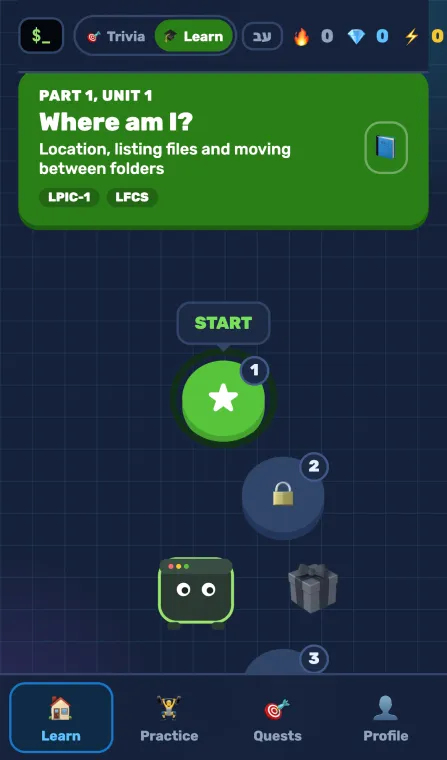
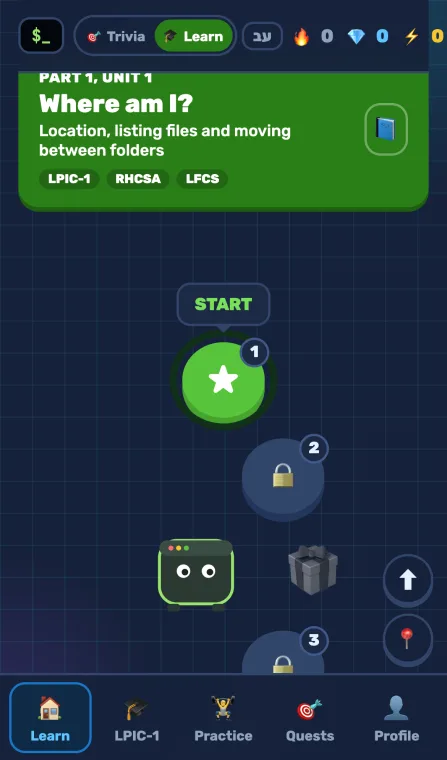
Linux Master: show the certification tracks
New screenshot with the LPIC-1 track chosen and the jump buttons, and a
highlight for the tracks (LPIC-1 71 units, RHCSA 56, LFCS 49).

diff --git a/src/data/site.ts b/src/data/site.ts
@@ -272,16 +272,16 @@ export const projects: Project[] = [
     },
     highlights: [
       {
+        en: "Pick your certification from the tab bar: LPIC-1 (71 units), RHCSA (56) or LFCS (49) shows only its units, and progress is kept in every track.",
+        he: "בוחרים הסמכה מסרגל הלשוניות: LPIC-1 (71 יחידות), RHCSA (56) או LFCS (49), ורואים רק את היחידות שלה. ההתקדמות נשמרת בכל מסלול.",
+      },
+      {
         en: "No invented output: answers run in a simulated shell or come from output recorded on real Ubuntu and AlmaLinux.",
         he: "בלי פלט מומצא: התשובות רצות במעטפת מדומה או מגיעות מפלט שהוקלט על Ubuntu ו-AlmaLinux אמיתיים.",
       },
       {
-        en: "An LPIC-1 mock exam with 60 questions weighted by objective, a 90-minute timer and a 500/800 pass mark.",
-        he: "מבחן דמה ל-LPIC-1 עם 60 שאלות לפי משקל היעדים, טיימר של 90 דקות וציון עובר 500 מתוך 800.",
-      },
-      {
-        en: "Playwright plays every unit on iPhone, iPhone SE and Pixel 7, with axe WCAG 2.1 AA in CI.",
-        he: "Playwright משחק כל יחידה על אייפון, iPhone SE ו-Pixel 7, עם בדיקות נגישות WCAG 2.1 AA ב-CI.",
+        en: "Three mock exams, LPIC-1 with 60 questions, a 90-minute timer and a 500/800 pass mark; Playwright plays every unit on three phones in CI.",
+        he: "שלושה מבחני דמה, ול-LPIC-1 יש 60 שאלות, טיימר של 90 דקות וציון עובר 500 מתוך 800; Playwright משחק כל יחידה על שלושה טלפונים ב-CI.",
       },
     ],
     technologies: ["JavaScript", "HTML5", "CSS3", "PWA", "Linux", "Bash", "Playwright", "Docker", "GitHub Actions", "Lighthouse CI"],
